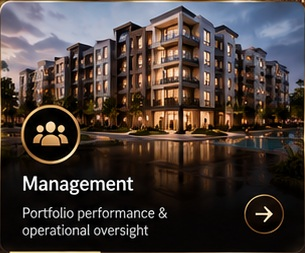
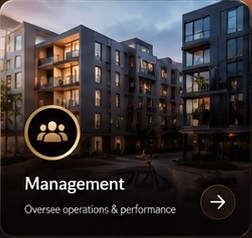
M9: home layout follows the Good evening design (cards, KPIs, activity, assistant, portfolio)
Claude-Session: https://claude.ai/code/session_017nuGQi7paUXJw6iq75wxdE

diff --git a/web/client/src/campus.jsx b/web/client/src/campus.jsx
@@ -42,75 +42,99 @@ const CARDS = [
   ['overview', 'mgmt', 'Management'], ['leases', 'tenants', 'Tenants and leases'],
   ['repairs', 'maint', 'Maintenance'], ['inbox', 'complaints', 'Complaints and service requests'],
 ];
-const KIND = { tenant_reply: 'Tenant reply draft', maintenance_note: 'Maintenance note draft' };
+const KIND = { tenant_reply: 'Tenant reply drafted', maintenance_note: 'Maintenance note drafted' };
+const CHIPS = [['repairs', 'Show open repairs'], ['inbox', 'Review tenant drafts'], ['overview', 'See what needs attention'], ['inbox', 'Draft a note to maintenance']];
+const greeting = () => { const h = new Date().getHours(); return h < 12 ? 'Good morning' : h < 18 ? 'Good afternoon' : 'Good evening'; };
+const Ic = ({ d }) => <svg width="26" height="26" viewBox="0 0 24 24" fill="none" stroke="#d6b06a" strokeWidth="1.6" strokeLinecap="round" strokeLinejoin="round" aria-hidden="true"><path d={d} /></svg>;
+const ICON = { home: 'M3 11l9-8 9 8v10H3z', fix: 'M14 6l4 4-9 9H5v-4zM13 7l4 4', chat: 'M4 5h16v11H9l-5 4z', doc: 'M6 3h9l4 4v14H6zM9 12h7M9 16h7', clock: 'M12 7v5l3 2M12 3a9 9 0 1 0 0 18 9 9 0 0 0 0-18z', star: 'M12 3l2 6 6 2-6 2-2 6-2-6-6-2 6-2z' };
 
-export function Campus({ user, can, go }) {
+export function Campus({ user, can }) {
   const s01 = useLoad(() => list('signals', { signal_id: 'S01' }), [user.id]);
   const s04 = useLoad(() => list('signals', { signal_id: 'S04' }), [user.id]);
   const s02 = useLoad(() => list('signals', { signal_id: 'S02' }), [user.id]);
-  const inbox = useLoad(() => (can('inbox') ? list('approvals', { status: 'pending' }) : Promise.resolve(null)), [user.id]);
+  const pend = useLoad(() => (can('inbox') ? list('approvals', { status: 'pending' }) : Promise.resolve(null)), [user.id]);
+  const done = useLoad(() => (can('inbox') ? list('approvals', { status: 'approved' }) : Promise.resolve(null)), [user.id]);
   const wo = useLoad(() => (can('repairs') ? list('work-orders') : Promise.resolve(null)), [user.id]);
   const first = String(user.name || '').split(' ')[0];
-  const n = (state, band) => (state.data ? state.data.rows.filter((r) => band.includes(r.band)).length : '–');
-  const pending = inbox.data ? inbox.data.rows : [];
+  const cnt = (st, bands) => (st.data ? st.data.rows.filter((r) => bands.includes(r.band)).length : '–');
+  const tot = (st) => (st.data ? st.data.rows.length : '–');
+  const pendingRows = pend.data ? pend.data.rows : [];
+  const activity = [...pendingRows.map((r) => ({ ...r, tag: 'Pending', tone: 'warn' })), ...(done.data ? done.data.rows.map((r) => ({ ...r, tag: 'Approved', tone: 'good' })) : [])]
+    .sort((x, y) => String(y.requested_at).localeCompare(String(x.requested_at))).slice(0, 3);
+  const late = s01.data ? s01.data.rows.filter((r) => r.band === 'breach_presumed').slice(0, 3) : [];
+  const onTime = s01.data && s01.data.rows.length ? Math.round(((s01.data.rows.length - s01.data.rows.filter((r) => r.band === 'breach_presumed').length) / s01.data.rows.length) * 100) : null;
+  const tiles = [
+    ['home', cnt(s01, ['breach_presumed']), 'Repairs past 7 days', s01.data ? `of ${tot(s01)} tracked` : ''],
+    ['doc', cnt(s04, ['high']), 'High renewal risk', s04.data ? `of ${tot(s04)} leases` : ''],
+    ['fix', cnt(s02, ['high', 'elevated']), 'Slow assignments', s02.data ? `of ${tot(s02)} work orders` : ''],
+    ['chat', can('inbox') ? (pend.data ? pendingRows.length : '–') : '–', 'Drafts waiting', 'for your approval'],
+  ];
   return (
     <>
       <section className="hero">
         <img src="/img/hero.jpg" alt="" />
         <div className="chip"><span>Demo · synthetic data</span><span>{user.title}</span></div>
-        <div className="words">
-          <h1>Welcome Back, {first}</h1>
-          <span className="tag">Smarter Operations. Happier Residents. Stronger Communities.</span>
-          <span className="rule" />
-        </div>
+        <div className="words"><h1>{greeting()}, {first}</h1><span className="tag">Here is what is happening across your properties today.</span></div>
       </section>
-      <div className="campus">
-        <div className="cards">
-          {CARDS.filter(([page]) => can(page)).map(([page, img, label]) => (
-            <a key={page} className="pcard" href={`#${page}`} aria-label={label}><img src={`/img/card-${img}.jpg`} alt={label} /></a>
-          ))}
+      <div className="campus2">
+        <div className="lcol">
+          <div className="cards4">
+            {CARDS.filter(([page]) => can(page)).map(([page, img, label]) => (
+              <a key={page} className="pcard" href={`#${page}`} aria-label={label}><img src={`/img/card-${img}.jpg`} alt={label} /></a>
+            ))}
+          </div>
+          <div className="rowA">
+            <section className="pn">
+              <header><span>Key indicators</span><span className="muted" style={{ fontSize: 11 }}>Live from the signals</span></header>
+              <div className="kpis">
+                {tiles.filter((t) => t[2] !== 'Drafts waiting' || can('inbox')).map(([ic, v, l, sub]) => (
+                  <div className="kpi" key={l}><Ic d={ICON[ic]} /><b>{v}</b><span>{l}</span>{sub ? <em>{sub}</em> : null}</div>
+                ))}
+              </div>
+            </section>
+            <section className="pn">
+              <header><span>Recent activity</span>{can('inbox') ? <a href="#inbox">View all →</a> : null}</header>
+              {can('inbox') ? (activity.length ? activity.map((r) => (
+                <div className="act" key={r.approval_id}><Ic d={ICON.chat} /><div><span>{KIND[r.kind] || r.kind}</span><small>Work order {r.entity_id} · {String(r.requested_at || '').slice(0, 10)}</small></div><b className={`tag ${r.tone}`}>{r.tag}</b></div>
+              )) : <p className="empty">No agent activity yet.</p>) : <p className="empty">Agent drafts are handled by the property manager.</p>}
+            </section>
+          </div>
+          <div className="rowB">
+            <section className="pn">
+              <header><span>Portfolio overview</span><span className="muted" style={{ fontSize: 11 }}>Demo portfolio</span></header>
+              <div className="port">
+                <img src="/img/thumb.jpg" alt="" />
+                <div className="pname"><span>{user.org_id ? `Org ${user.org_id}` : 'All orgs'}</span><small className="muted">Synthetic data</small></div>
+                <div className="pnum"><small>Leases scored</small><b>{tot(s04)}</b></div>
+                <div className="pnum"><small>Open work orders</small><b>{wo.data ? wo.data.rows.filter((r) => r.is_open).length : '–'}</b></div>
+                {onTime === null ? null : (
+                  <svg width="76" height="76" viewBox="0 0 76 76" role="img" aria-label={`${onTime} percent of repairs within 7 days`}>
+                    <circle cx="38" cy="38" r="31" fill="none" stroke="rgba(243,235,218,.12)" strokeWidth="6" />
+                    <circle cx="38" cy="38" r="31" fill="none" stroke="#2fd27a" strokeWidth="6" strokeLinecap="round" strokeDasharray={`${(onTime / 100) * 194.8} 194.8`} transform="rotate(-90 38 38)" />
+                    <text x="38" y="43" textAnchor="middle" fontSize="13" fill="#f3ebda">{onTime}%</text>
+                  </svg>
+                )}
+              </div>
+              {onTime === null ? null : <small className="muted">Ring: repairs within the 7-day presumption (S01).</small>}
+            </section>
+            <section className="pn">
+              <header><span>Upcoming follow-ups</span>{can('repairs') ? <a href="#repairs">Open repairs →</a> : null}</header>
+              {late.length ? late.map((r) => (
+                <div className="todo" key={r.entity_id}><span><i />Follow up on work order {r.entity_id}</span><time>{Number(r.value).toFixed(0)} days open</time></div>
+              )) : <p className="empty">No repairs are past the 7-day presumption.</p>}
+            </section>
+          </div>
         </div>
-        <div className="row3">
-          <section className="pn">
-            <header><span>Key indicators</span><span className="muted" style={{ fontSize: 11 }}>Live from the signals</span></header>
-            <div className="kpis">
-              <div className="kpi"><b>{n(s01, ['breach_presumed'])}</b><span>Repairs past 7 days</span><em className="muted">{s01.data ? `of ${s01.data.rows.length} tracked` : ''}</em></div>
-              <div className="kpi"><b>{n(s04, ['high'])}</b><span>Leases at high renewal risk</span><em className="muted">{s04.data ? `of ${s04.data.rows.length} scored` : ''}</em></div>
-              <div className="kpi"><b>{n(s02, ['high', 'elevated'])}</b><span>Slow assignments</span><em className="muted">{s02.data ? `of ${s02.data.rows.length} work orders` : ''}</em></div>
-              {can('inbox') ? <div className="kpi"><b>{inbox.data ? pending.length : '–'}</b><span>Drafts waiting</span><em className="muted">for your approval</em></div> : null}
-            </div>
+        <aside className="rcol">
+          <section className="pn asst">
+            <header><span className="aname"><Ic d={ICON.star} />DoorSignal assistant</span></header>
+            <small className="muted">Drafts only: nothing is sent until you approve.</small>
+            <p style={{ margin: '4px 0 0' }}>How can I help you today?</p>
+            <div className="chips">{CHIPS.filter(([page]) => can(page)).map(([page, label]) => <a key={label} className="chipbtn" href={`#${page}`}>{label}</a>)}</div>
+            <input type="text" disabled aria-label="Ask the assistant (not live yet)" placeholder="Ask anything (not live yet)" />
           </section>
-          <section className="pn">
-            <header><span>Pending action</span>{can('inbox') ? <a href="#inbox">View all →</a> : null}</header>
-            {can('inbox') ? (
-              <Async state={inbox}>{(d) => (d.rows.length ? d.rows.slice(0, 5).map((r) => (
-                <div className="pend" key={r.approval_id}><span><i style={{ background: '#e8a33d' }} />{KIND[r.kind] || r.kind}, work order {r.entity_id}</span><time>{String(r.requested_at || '').slice(0, 10)}</time></div>
-              )) : <p className="empty">Nothing waiting for you.</p>)}</Async>
-            ) : <p className="empty">Approvals are handled by the property manager.</p>}
-          </section>
-          <section className="pn assist">
-            <img src="/img/assistant.jpg" alt="" />
-            <div className="say">
-              <header style={{ marginBottom: 10 }}><span>DoorSignal assistant</span></header>
-              <div className="bubble">{can('inbox') ? (inbox.data ? (pending.length ? `${pending.length} draft${pending.length === 1 ? '' : 's'} are ready for your review. I only draft: nothing is sent until you approve.` : 'No drafts are waiting. I will flag the next one here.') : 'Checking for drafts…') : 'Drafts are reviewed by the property manager.'}</div>
-              {can('inbox') ? <p style={{ margin: '12px 0 0' }}><a className="btn" href="#inbox">Review requests →</a></p> : null}
-            </div>
-          </section>
-        </div>
-        <div className="row2">
-          <section className="pn">
-            <header><span>Portfolio at a glance</span></header>
-            <div className="kpis">
-              <div className="kpi"><b>{s04.data ? s04.data.rows.length : '–'}</b><span>Leases scored</span></div>
-              <div className="kpi"><b>{wo.data ? wo.data.rows.filter((r) => r.is_open).length : '–'}</b><span>Open work orders</span></div>
-              <div className="kpi"><b>{s01.data ? s01.data.rows.length : '–'}</b><span>Repairs on the clock</span></div>
-            </div>
-          </section>
-          <section className="pn">
-            <header><span>Where to look next</span></header>
-            {can('risk') ? <p className="empty" style={{ margin: 0 }}>The risk register ranks what to fix first. <a href="#risk" onClick={() => go('risk')}>Open it →</a></p> : <p className="empty" style={{ margin: 0 }}>Your role sees the signals that apply to it.</p>}
-          </section>
-        </div>
+          <img className="flowers" src="/img/flowers.jpg" alt="" />
+        </aside>
       </div>
     </>
   );

diff --git a/web/client/src/styles.css b/web/client/src/styles.css
@@ -42,26 +42,29 @@ blockquote { margin:10px 0; padding:10px 14px; background:rgba(0,0,0,.25); borde
 .ok { color:var(--good); font-weight:500; } .error { color:var(--bad); font-weight:500; }
 dl { display:grid; grid-template-columns:auto 1fr; gap:4px 12px; font-size:13px; } dt { color:var(--mute); } dd { margin:0; }
 /* campus home */
-.hero { position:relative; height:238px; overflow:hidden; background:#0d0806; } .hero img { position:absolute; right:0; top:0; height:238px; width:auto; max-width:none; }
+.hero { position:relative; height:248px; overflow:hidden; background:#0d0806; } .hero img { position:absolute; right:0; top:0; height:248px; width:auto; max-width:none; }
 .hero:after { content:""; position:absolute; inset:0; background:linear-gradient(90deg,#0d0806 0%,rgba(13,8,6,0) 40%); }
-.hero .words { position:absolute; left:44px; top:48px; z-index:2; display:flex; flex-direction:column; gap:8px; } .hero h1 { font-size:34px; margin:0; } .hero .tag { font-size:14px; } .hero .rule { width:80px; height:2px; background:var(--gold); }
-.hero .chip { position:absolute; right:8px; top:14px; z-index:2; display:flex; align-items:center; justify-content:flex-end; gap:16px; width:450px; height:64px; padding:0 24px; border-radius:32px; background:#0d0806; border:1px solid var(--line); font-size:12px; color:var(--mute); }
-.campus { padding:0 32px 36px; display:flex; flex-direction:column; gap:18px; }
-.cards { display:grid; grid-template-columns:repeat(auto-fit,minmax(220px,1fr)); gap:16px; margin-top:-4px; }
-.pcard { display:block; border-radius:18px; overflow:hidden; line-height:0; transition:transform .2s ease,box-shadow .2s ease; } .pcard img { width:100%; height:253px; object-fit:cover; display:block; }
+.hero .words { position:absolute; left:46px; top:76px; z-index:2; display:flex; flex-direction:column; gap:8px; } .hero h1 { font-size:34px; margin:0; } .hero .tag { font-size:14px; } .hero .rule { width:80px; height:2px; background:var(--gold); }
+.hero .chip { position:absolute; right:6px; top:16px; z-index:2; display:flex; align-items:center; justify-content:flex-end; gap:16px; width:380px; height:64px; padding:0 24px; border-radius:32px; background:#0d0806; border:1px solid var(--line); font-size:12px; color:var(--mute); }
+.campus2 { display:grid; grid-template-columns:minmax(0,1fr) 305px; gap:18px; padding:0 28px 32px 24px; margin-top:-4px; } .lcol { display:flex; flex-direction:column; gap:18px; min-width:0; } .rcol { display:flex; flex-direction:column; gap:16px; margin-top:-4px; }
+.cards4 { display:grid; grid-template-columns:repeat(auto-fit,minmax(190px,1fr)); gap:16px; }
+.pcard { display:block; border-radius:16px; overflow:hidden; line-height:0; transition:transform .2s ease,box-shadow .2s ease; } .pcard img { width:100%; height:auto; aspect-ratio:252/238; object-fit:cover; display:block; }
 .pcard:hover, .pcard:focus-visible { transform:translateY(-4px); box-shadow:0 0 0 1px rgba(214,176,106,.8),0 10px 30px rgba(214,176,106,.2); outline:0; }
-.row3 { display:grid; grid-template-columns:minmax(0,3fr) minmax(0,2fr) minmax(0,2fr); gap:18px; } .row2 { display:grid; grid-template-columns:minmax(0,3fr) minmax(0,2fr); gap:18px; }
-.pn { background:var(--card); border:1px solid var(--line); border-radius:14px; padding:18px; display:flex; flex-direction:column; gap:14px; } .pn header { display:flex; justify-content:space-between; font-size:14px; } .pn header a { font-size:11px; text-decoration:none; }
-.kpis { display:grid; grid-template-columns:repeat(auto-fit,minmax(110px,1fr)); gap:10px; } .kpi { background:rgba(214,176,106,.06); border:1px solid rgba(214,176,106,.18); border-radius:12px; padding:12px; display:flex; flex-direction:column; gap:3px; } .kpi b { font:500 26px/1.1 Inter, system-ui, sans-serif; } .kpi span { font-size:11px; color:var(--mute); } .kpi em { font-style:normal; font-size:11px; }
-.pend { display:flex; justify-content:space-between; gap:10px; font-size:12px; } .pend i { display:inline-block; width:10px; height:10px; border-radius:50%; margin-right:10px; } .pend time { color:var(--mute); white-space:nowrap; }
-.assist { position:relative; overflow:hidden; min-height:240px; background:linear-gradient(135deg,rgba(214,176,106,.14),rgba(255,255,255,.02)); } .assist img { position:absolute; right:0; bottom:0; height:100%; width:auto; -webkit-mask-image:linear-gradient(90deg,transparent,#000 35%); mask-image:linear-gradient(90deg,transparent,#000 35%); } .assist .say { position:relative; z-index:1; max-width:62%; } .assist .bubble { border:1px solid var(--line); border-radius:14px; padding:12px; background:rgba(0,0,0,.35); font-size:12px; }
-.assist a.btn { align-self:flex-start; text-decoration:none; display:inline-flex; align-items:center; font-size:12px; }
-.empty { font-size:12px; color:var(--mute); }
+.rowA { display:grid; grid-template-columns:minmax(0,3fr) minmax(0,2fr); gap:18px; } .rowB { display:grid; grid-template-columns:minmax(0,3fr) minmax(0,2fr); gap:18px; }
+.pn { background:var(--card); border:1px solid var(--line); border-radius:14px; padding:18px; display:flex; flex-direction:column; gap:12px; } .pn header { display:flex; justify-content:space-between; align-items:center; font-size:14px; } .pn header a { font-size:11px; text-decoration:none; }
+.kpis { display:grid; grid-template-columns:repeat(auto-fit,minmax(96px,1fr)); gap:10px; } .kpi { background:rgba(214,176,106,.06); border:1px solid rgba(214,176,106,.18); border-radius:12px; padding:12px; display:flex; flex-direction:column; gap:3px; } .kpi b { font:500 26px/1.15 Inter, system-ui, sans-serif; } .kpi span { font-size:11px; color:var(--mute); } .kpi em { font-style:normal; font-size:11px; color:var(--gold2); }
+.act { display:grid; grid-template-columns:28px 1fr auto; gap:10px; align-items:center; font-size:12px; } .act small { display:block; color:var(--mute); font-size:11px; } .tag { font-size:10px; font-weight:500; padding:3px 9px; border-radius:5px; } .tag.warn { background:rgba(232,163,61,.18); color:var(--warn); } .tag.good { background:rgba(76,195,138,.18); color:var(--good); }
+.port { display:flex; flex-wrap:wrap; align-items:center; gap:16px; } .port img { width:88px; height:88px; border-radius:10px; object-fit:cover; } .pname { display:flex; flex-direction:column; flex:1 1 90px; font-size:14px; } .pnum { display:flex; flex-direction:column; gap:2px; font-size:11px; color:var(--mute); } .pnum b { font:500 20px Inter, system-ui, sans-serif; color:var(--ink); }
+.todo { display:flex; justify-content:space-between; gap:10px; font-size:12px; } .todo i { display:inline-block; width:14px; height:14px; border-radius:50%; border:1px solid var(--mute); margin-right:10px; vertical-align:-3px; } .todo time { color:var(--mute); white-space:nowrap; }
+.asst { background:linear-gradient(160deg,rgba(214,176,106,.12),rgba(255,255,255,.02)); border-color:rgba(214,176,106,.35); font-size:13px; } .aname { display:flex; align-items:center; gap:10px; } .chips { display:flex; flex-direction:column; gap:8px; align-items:flex-start; margin:8px 0; } .chipbtn { font-size:12px; color:var(--ink); border:1px solid rgba(214,176,106,.4); border-radius:999px; padding:8px 14px; text-decoration:none; } .chipbtn:hover { border-color:var(--gold); } .asst input { width:100%; min-height:40px; opacity:.6; }
+.flowers { width:100%; height:auto; border-radius:14px; display:block; }
+.empty { font-size:12px; color:var(--mute); margin:0; }
+.who { flex-direction:row; align-items:center; gap:10px; flex-wrap:wrap; } .who img { width:38px; height:38px; border-radius:50%; object-fit:cover; } .who .wtext { display:flex; flex-direction:column; }
 /* sign in */
 main.login { padding:0; max-width:none; } .login { display:grid; grid-template-columns:minmax(0,1.62fr) minmax(0,1fr); min-height:100vh; background:#0d0806; } .login .art { position:relative; overflow:hidden; } .login .art img { position:absolute; inset:0; width:100%; height:100%; object-fit:cover; object-position:left center; }
 .login .panel { display:flex; align-items:center; justify-content:center; padding:48px; background:linear-gradient(180deg,#120c08,#0d0806); }
 .login .box { width:100%; max-width:520px; border:1px solid rgba(214,176,106,.55); border-radius:28px; background:linear-gradient(160deg,rgba(214,176,106,.1),rgba(255,255,255,.02)); padding:44px 36px 32px; display:flex; flex-direction:column; gap:20px; } .login h1 { font-size:38px; text-align:center; margin:0; } .login .sub { text-align:center; color:#e8dfcb; }
 .person { text-align:left; background:rgba(0,0,0,.25); border:1px solid rgba(214,176,106,.35); border-radius:14px; padding:12px 16px; font:inherit; color:inherit; cursor:pointer; display:flex; flex-direction:column; gap:2px; min-height:52px; } .person:hover, .person:focus-visible { border-color:var(--gold); outline:0; background:rgba(214,176,106,.08); } .person span { color:var(--mute); font-size:12px; }
 .people { display:flex; flex-direction:column; gap:10px; }
-@media (max-width:1100px){ .row3,.row2,.split { grid-template-columns:1fr; } .login { grid-template-columns:1fr; } .login .art { min-height:240px; } }
+@media (max-width:1100px){ .campus2,.rowA,.rowB,.split { grid-template-columns:1fr; } .login { grid-template-columns:1fr; } .login .art { min-height:240px; } }
 @media (max-width:900px){ .shell{grid-template-columns:1fr;} aside{flex-direction:row; flex-wrap:wrap;} nav{flex-direction:row; flex-wrap:wrap;} .hero .chip{display:none;} }

diff --git a/web/client/src/App.jsx b/web/client/src/App.jsx
@@ -9,8 +9,8 @@ const ICON = {
   money: 'M12 3v18M16 7c-1-1-2-1.5-4-1.5S8 6.5 8 8.5 10 11 12 11.5s4 1 4 3-2 3-4 3-3-.5-4-1.5', risk: 'M12 3l9 16H3zM12 10v4M12 17v.5',
 };
 const NAV = [
-  ['campus', 'Property Campus'], ['overview', 'Management'], ['leases', 'Tenants and leases'], ['repairs', 'Maintenance'],
-  ['inbox', 'Complaints and requests'], ['signals', 'Analytics'], ['money', 'Expected loss'], ['risk', 'Risk register'],
+  ['campus', 'Overview'], ['overview', 'Management'], ['leases', 'Tenants'], ['repairs', 'Maintenance'],
+  ['inbox', 'Complaints'], ['signals', 'Analytics'], ['money', 'Expected loss'], ['risk', 'Risk register'],
 ];
 
 export default function App() {
@@ -37,8 +37,8 @@ export default function App() {
         <div className="brand"><Logo size={44} /><b>DoorSignal</b><small>Connect · Manage · Thrive</small></div>
         <nav>{NAV.filter(([id]) => can(id)).map(([id, label]) => <a key={id} href={`#${id}`} className={id === current ? 'on' : ''}><svg viewBox="0 0 24 24" fill="none" stroke="currentColor" strokeWidth="1.6" strokeLinecap="round" strokeLinejoin="round" aria-hidden="true"><path d={ICON[id]} /></svg>{label}</a>)}</nav>
         <div className="who">
-          <strong>{user.name}</strong>
-          <span>{user.title}</span>
+          <img src="/img/avatar.jpg" alt="" />
+          <div className="wtext"><strong>{user.name}</strong><span>{user.title}</span></div>
           <button className="link" onClick={() => logout().then(() => { setUser(null); window.location.hash = ''; })}>Sign out</button>
         </div>
       </aside>

diff --git a/docs/web.md b/docs/web.md
@@ -35,4 +35,4 @@ Same rules as the API (`docs/api.md`): the database decides. Pages a role cannot
 
 ## Look and feel (M9)
 
-The sign-in and the Property Campus home use an espresso and gold style. The photos in `web/client/public/img/` are cut from design images made outside this repo (an AI image tool). They are placeholders: replace them with sharp, licensed originals before any public use. Text, numbers and links on these screens are live; the four card photos carry their titles in the picture. The home figures come from the same signals and approvals as the other pages. The mock's occupancy, revenue and portfolio-property figures are not shown because the API has no such data yet. The Content-Security-Policy now allows Google Fonts (styles and font files only).
+The sign-in and the home (Overview) use an espresso and gold style. The home layout follows the "Good evening" design; the sign-in follows the DoorSignal login design. The photos in `web/client/public/img/` are cut from design images made outside this repo (an AI image tool). They are placeholders: replace them with sharp, licensed originals before any public use. Text, numbers and links on these screens are live; the four card photos carry their titles in the picture. The home figures come from the same signals and approvals as the other pages. The mock's occupancy, revenue and portfolio-property figures are not shown because the API has no such data yet. The Content-Security-Policy now allows Google Fonts (styles and font files only).
